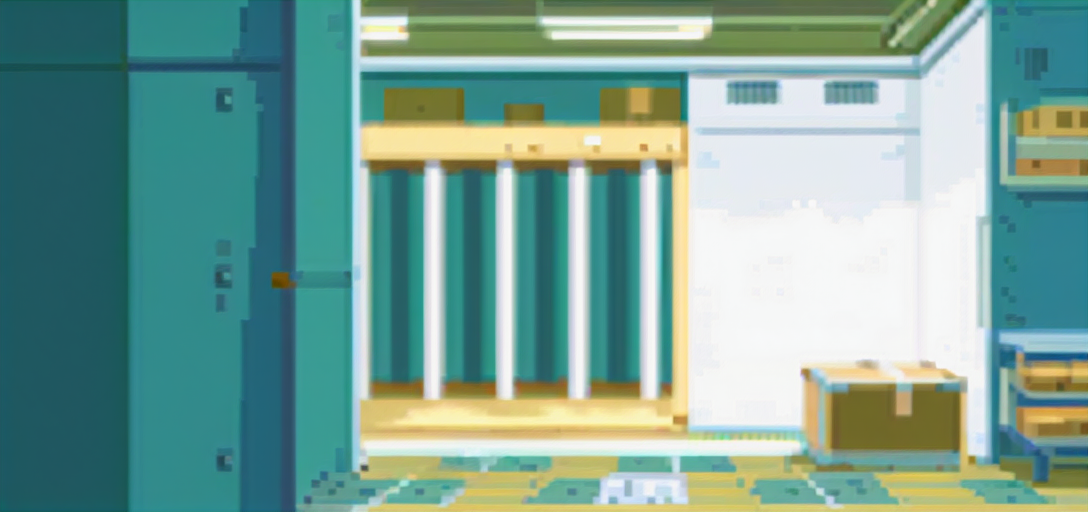
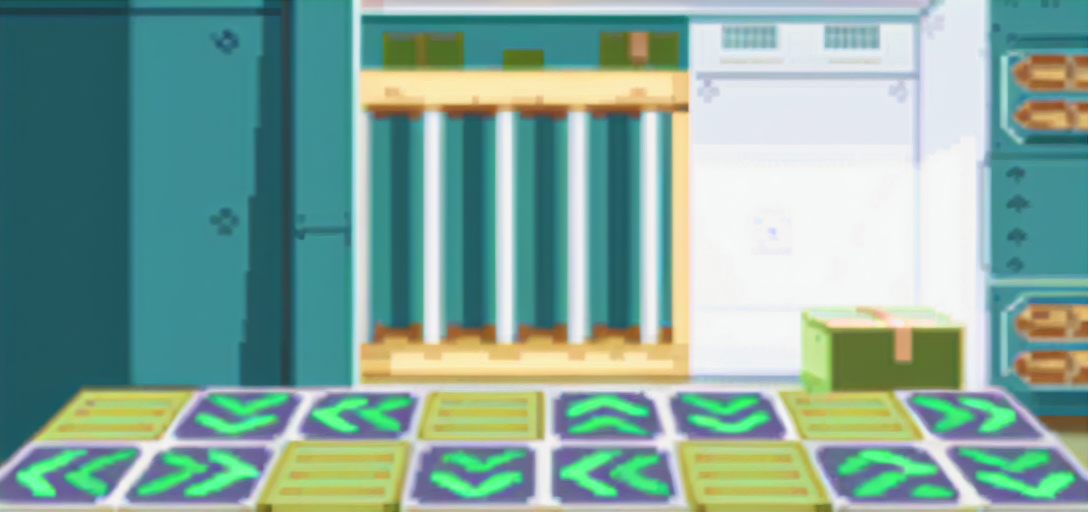
T-445: CORPUS HIDEOUT's card built (engine 4f24d5d37); the WAREHOUSE's repainted with a bigger spin-tile floor (draft)
rocket_hideout joins LANDMARK_APPROVED. The WAREHOUSE's room is lifted 12 rows
and its floor laid 26px deep, eight spin tiles a row, painted at 0.40 (seed 4472)
so the arrows read at 1x; interior_floor no longer takes a computer or a door for
a spin tile; post 'spinfloor' lays the tiles back crisp (a candidate, not used).

diff --git a/tools/gbapreviews.py b/tools/gbapreviews.py
@@ -578,7 +578,8 @@ MOTIFS = dict(lights=motif_lights, courses=motif_courses, cable=motif_cable, col
 #  is drawn (an ash sky, CINNABAR's sea behind, the sand) and the burned facade laid over it. The sprite server then
 #  repaints it, image to image, at a denoise low enough that our building survives. Nothing here is written to the
 #  engine until the user approves a card (LANDMARK_APPROVED).
-LANDMARK_APPROVED = {"silph_co", "pokemon_tower", "pokemon_mansion"}   # the user, 2026-10-26: build all three as drawn
+LANDMARK_APPROVED = {"silph_co", "pokemon_tower", "pokemon_mansion",   # the user, 2026-10-26: build all three as drawn
+                     "rocket_hideout"}                                 # the user, 2026-10-26: CORPUS HIDEOUT as drawn
 LANDMARK_DRAWINGS = os.path.join(ROOT, "gfx", "drafts", "landmarks")
 GREYS = [(40, 40, 46), (72, 72, 80), (108, 108, 116), (148, 148, 156), (188, 188, 194), (222, 222, 226)]
 LANDMARK = {
@@ -632,8 +633,13 @@ LANDMARK = {
     "rocket_warehouse": dict(
         source="FiveIsland_RocketWarehouse", title="CORPUS WAREHOUSE", interior=True,
         erase=[((0, 33, 29, 93), (2, 30)), ((29, 33, 43, 93), (35, 30))],
-        floor_tiles=dict(quad=((64, 112), (236, 112), (214, 100), (84, 100)), cols=10, rows=2),
-        seed=4471, denoise=0.45,
+        #  the user (2026-10-26): "repaint with a bigger spin-tile floor that reads at 1x". The first draft's floor
+        #  was a 12px strip of ten tiles a row and washed out; the room is lifted 12 rows (its ceiling strip goes) and
+        #  the floor laid 26px deep, eight tiles a row at the foot, painted at 0.40. post=["spinfloor"] (with the two
+        #  arrow greens in force) lays them back crisp after the painting instead -- the other candidates on sheet
+        #  t445w_repaint. DRAFT: not in LANDMARK_APPROVED.
+        lift=12, floor_tiles=dict(quad=((-8, 112), (248, 112), (222, 86), (18, 86)), cols=8, rows=2),
+        seed=4472, denoise=0.40,
         prompt="inside a corporate warehouse, riveted teal metal wall panels, a wooden cage of white bars, a white "
                "steel door, cardboard boxes, an olive floor laid with green arrow floor tiles, fluorescent ceiling "
                "light",
@@ -695,6 +701,10 @@ def interior_scene(folder):
             k = region(x, y)
             lo, hi = rng[k]
             px[x, y] = _ramp(INTERIOR_RAMPS[k], (_lum(vp[x, y]) - lo) / max(1, hi - lo))
+    lift = c.get("lift", 0)
+    if lift:                    # the room raised LIFT rows (its ceiling strip goes), so the floor has room to be seen
+        bg.paste(bg.crop((0, lift, 240, 112)), (0, 0))
+        ImageDraw.Draw(bg).rectangle((0, 112 - lift, 239, 111), fill=_ramp(INTERIOR_RAMPS["floor"], 0.55))
     return bg
 
 
@@ -709,12 +719,14 @@ def interior_floor(folder):
     bd = open(os.path.join(GBA, l["blockdata_filepath"]), "rb").read()
     green = {(82, 222, 123), (131, 255, 164)}
     arrows, floor, seen = [], collections.Counter(), set()
+    #  a spin tile is 56 of its 256 pixels green; a computer or a door carries 2 (their screens' LEDs), so a block is
+    #  an arrow only where green is a real share of it
     for yy in range(H):
         for xx in range(W):
             m = struct.unpack_from("<H", bd, (yy * W + xx) * 2)[0] & 0x3FF
             cell = img.crop((xx * 16, yy * 16, xx * 16 + 16, yy * 16 + 16))
             cols = set(cell.getdata())
-            if cols & green:
+            if sum(p in green for p in cell.getdata()) >= 16:
                 if m not in seen:
                     seen.add(m)
                     arrows.append(cell)
@@ -923,7 +935,18 @@ def post_redband(im, folder="silph_co"):
                 px[x, y] = red
 
 
-POSTS = dict(braille=post_braille, redband=post_redband)
+def post_spinfloor(im, folder="rocket_warehouse"):
+    """CORPUS WAREHOUSE, after the painting: the spin tiles laid back on the floor from the built map, warped to the
+    card at 1x (the server washes a green chevron this small into the olive at any denoise that paints the room)"""
+    c = LANDMARK[folder]
+    b, q = interior_floor(folder), c["floor_tiles"]["quad"]
+    W, H = b.size
+    co = _homography([(0, H), (W, H), (W, 0), (0, 0)], q)
+    w = b.transform((240, 112), Image.PERSPECTIVE, co, Image.NEAREST)
+    im.paste(w.convert("RGB"), (0, 0), w)
+
+
+POSTS = dict(braille=post_braille, redband=post_redband, spinfloor=post_spinfloor)
 
 
 # ================================================================== OTHER CAVE's four lights

diff --git a/docs/TODO.md b/docs/TODO.md
@@ -338,7 +338,7 @@ was one `git log -S` away.*
 | **T-449** | **The region map rebranded: same shape, our look** (*the user, 2026-10-24: "refresh and rebrand the map itself -- similar shape so it matches normal navigation from it, should have the thesis looks and feel (elements of music and code) and the land itself should look different at least in theme form ... both the mainland and islands ... the routine to travel is GOTO and TRAVERSE so maybe the water itself is like a shuffle of binary or musical notes (same as theme) (maybe this also applies to some general overworld sprites not just the map)"*). The TOWN MAP / GOTO map (graphics/region_map/, both the mainland and the SEVII pages) keeps its layout and cursor grid so navigation is unchanged, but the land, routes, towns and frame are redrawn in the game's music-and-code language, and the sea becomes a shuffle of bits or notes, animated if the map allows. **Job**: draft on a sheet (mainland + islands, today beside draft) for the user; then the same idea proposed for the overworld's water tiles and other general field art. Never say the thesis (craft rule 1): the look carries it. **Drafted (DAEMONS `f780ddb9`, gfx/drafts/t449). The user (2026-10-24): direction A SCORE (paper and ink, staff-line terrain, beamed routes, noteheads) -- lift the sea's contrast against the paper islands; the sea a shuffle of bits AND notes, animated by palette cycling (a new row 5, the shore calm); the frame redrawn whole (side panels and the six slide-open edge sprites); the overworld water in bits and notes, each slot on its own timing.* **Built (engine `fc361a133`, `tools/gbaregionmap.py` `--write --approved`; `tools/gbawater.py` redrawn):** the four pages, the sea on BG row 5 cycled by `Task_RegionMapSea` (fades checked in the theatre), the frame, edge sprites, top strip, buttons and switch menu; the overworld water's 8 frames as four glyph slots on their own schedules. *Left for the user: the GOTO/fly icons and the cursor are still vanilla's sprites (red and blue on the paper), and the "other general field art" half of the job.* |
 | **T-447** | **The landmarks get art of their own, drawn from the story** (*the user, 2026-10-24: "especially for key buildings though (like scorn solutions) we want to make the art our own, not just tweak, so we should look at the story and infer from that"*). T-438's passes keep vanilla's silhouettes and retint them; the buildings the story turns on (SCORN SOLUTIONS, CORPUS's tower, DAEMON TOWER, the MANSION, CRYSTAL's lab, the BENCHMARKs, the GAME CORNER, ERRATA, KEEPALIVE PLANT, the REVIEW BOARD, USER TOWER ...) need designs inferred from the bible. **Job**: a landmarks plan (story basis + a 512 concept per building, footprint and palette limits) for the user's approval, then redraw each inside its footprint; landmarks are held out of T-438's leftover batches. **Planned (DAEMONS `6db593e4`; docs/private/plan-landmarks-2026-10-24.md). The user (2026-10-24): SCORN SOLUTIONS drawn as CRYSTAL's lab's sister, then rebranded (gold leaf, blinds, the roof ruled like a form, an intake slot; the only red the new owner's); the MANSION redesigned in its 7x4 footprint (replaces batch H's ash roof); CORPUS's floor plate seen through a glass lobby, no words; built two at a time, a sheet and a yes before each pair -- SCORN SOLUTIONS + the MANSION first, then CORPUS's tower. Still to ask, with their pairs: DAEMON TOWER, REVIEW BOARD, USER TOWER, THE ANNEX.* **SCORN SOLUTIONS + the MANSION drafted (DAEMONS `ee34966e`, tools/gbalandmarks.py; 91 of 117 tiles). The user (2026-10-24): SCORN's door a plain steel door with the procedure's red light; the roof form as fewer, bigger boxes so the tick reads at 1x; the MANSION one big stain rising from the cave-in and the racks curved like a rib cage; revise, show the sheet once more at 1x, then build on a yes.* **Revised (DAEMONS `e559d4eb`); the user (2026-10-24): build it.** **The first pair BUILT (engine `cf4454491`, 2026-10-24)**: `gbalandmarks.py --write --approved` (blocks 134->192, rows 10 and 11, byte-identical to the draft) then `gbadoors.py --write --approved` (the lab door's frames from the steel door, sDoorAnimPalettes_CinnabarLab 3 -> 10); a second write of each a no-op (gbalandmarks' census now ignores the unused RS Safari layouts' block ids past vanilla's count, which read as its own blocks after a write and made the rerun refuse); gbatowns, gbaislandsigns, gbasandbar and gbafounder write nothing new. Walked in the theatre: both buildings in game, SCORN's steel door swinging open as the player walks in, the MANSION's door into 1F. Next: CORPUS's tower. **The user (2026-10-24, evening): DAEMON TOWER dots and niches (dense dots at the foot, sparse at the top; seven bands of niches); USER TOWER progress bars (each floor a band with a teal bar); THE ANNEX a flat survey disc (no collision change). The REVIEW BOARD's colour is still to ask.* **Pair 2 drafted (DAEMONS `84ae38f3`) as flat slabs; the user (2026-10-24): redraw both with 3/4 depth (side faces, an inset silhouette with ground at the sides, rounded/stepped edges); DAEMON TOWER's niches arched into the dots (no shelves) and its top a dotted dome; CORPUS's door redrawn so the plate continues through its glass (new silph_co door frames).* **Pair 2 redrawn with depth (DAEMONS `a219855f`); the user (2026-10-25): build both. The REVIEW BOARD's only colour: four vessels of fluid (red, yellow, black, pale) in seat order I-IV.* **Pair 2 BUILT (engine `27e785a73`, 2026-10-25)**: `gbalandmarks.py --write --approved` (corpus_tower, daemon_tower added to APPROVED: saffron_city row 9, 55 tiles, blocks 276->282, the tower and the crossings' copy; lavender_town row 7, 82 tiles, LavenderTown rows 0..6 and ROUTE 10 rows 72..79) then `gbadoors.py --write --approved` (DOORS["silph_co"]["redrawn"] = CORPUS_DOOR without its block: silph_co.png from the glass door, sDoorAnimPalettes_SilphCo 3 -> 9); gbadoors' report exits 0, a second write of both a no-op, gbatowns redraws nothing, every PNG 4-bit 16-colour. Walked in the theatre (`tools/routes/landmarks-2.json`, goto, holds and shots): CORPUS's tower at 1x, its glass door (the plate through it) sliding open as the player walks in, into SilphCo_1F; DAEMON TOWER grey and in colour (sDaemonsHalftoneInColour poked), its dotted dome on ROUTE 10, walked into PokemonTower_1F. Found: the map-name cards on entering still show vanilla's SILPH CO. and POKEMON TOWER pictures. Next: ask DAEMON TOWER's neighbours -- the REVIEW BOARD (its colour decided), USER TOWER, THE ANNEX.* **Pair 3 drafted (DAEMONS `64a0205c`); the user (2026-10-25): build with tweaks -- the REVIEW BOARD's pale porch redrawn in dark stone (the shared door kept); four faint seat places inlaid along its slab; ERRATA's erratum (struck line, red caret) moved onto the big slate roof where it reads at 1x (an echo on the pediment if tiles allow); a quick 1x check, then build.* **Tweaked (DAEMONS `9283f477`); the user (2026-10-25): build pair 3 -- and scramble ERRATA's chalk line so no word can be picked out (at 3x it read 'why'), same tiles.* **Pair 3 BUILT (engine `2332f9e44`, 2026-10-26)**: *ERRATA's chalk first scrambled -- each word's span kept in place and width, drawn as one pen path of chalk (ERRATA_SCRAWL, steps of at most two, three pen lifts above the x-height) instead of letter-like shapes, so no word reads at 1x or 3x; only 8 tiles' pixels changed, still 123 of 123 slots. Then `gbalandmarks.py --write --approved` (review_board, errata added to APPROVED): UMBRA rows 7 and 8, 112 tiles, blocks 176->197, -num_tiles 247->300; SLATE row 12, 123 tiles (0 to spare), blocks 146->186, -num_tiles 312->376. Byte-identical to the draft; a second write a no-op; every PNG 4-bit 16-colour; pairs 1 and 2 untouched; gbadoors: the engine matches its write exactly (both doors kept, no frames); gbatowns writes nothing new (its census now counts ERRATA as ours: SLATE 12% -> 3% vanilla). firered_debug built (exit 0). Route `tools/routes/landmarks-3.json` (goto and shots, walking into each door) written and checked, not yet played: the theatre did not answer.* |
 | ~~**T-446**~~ | ~~**Four elevator doors would redraw lit if gbadoors ran with --approved**~~ (*found 2026-10-24 by the batch F build*): `gbadoors.py --write --approved` would redraw the HIDEOUT, SILPH and TRAINER TOWER lobby and roof elevator doors with the cab light instead of dark -- old drift (probably batch D, engine 80f4553d8), present on a clean HEAD; check_generators misses it because it runs gbadoors without --approved. The game is unchanged (the four files were reverted). **Job**: find which side is right, fix the tool or the files, and record or clear the drift; make check_generators run gbadoors' approved set too. **Also (2026-10-24, the landmark build): `gbadoors --write --approved` would now redraw `safari_zone.png` (420 pixels re-indexed after batch H moved LURID's row 9), so the SAFARI door's opening frames may not match its new closed colours -- check in the theatre and fix with the elevator doors.* | ***Closed (engine `4c307ea22`; the tool in this commit).*** **The files were right; the tool had drifted.** *Filmed in the theatre (all five opening, or the lobby lift opening as you leave it -- its counter keeps you out): no jump outside the leaf, a slate room behind each. The tool picks the room as the row's DARKEST colour, and later palette passes moved which entry that is -- batch D's timber brown (building row 2, entry 9) and batch H's LURID magenta (fuchsia row 9, entry 10) went darker than the approved slate (entry 1), so a write would have swapped room and floor line. Not lit: brown and magenta.* **Fix**: `DOORS` pins those five rooms by palette index (`room=(void, floor, sill)`, the entries batch A drew), so a recolour moves frames and closed block together. `safari_zone.png`'s pixels were already right; only its embedded palette was stale, rewritten (ROM unchanged). **Caught from now on**: gbadoors' report compares the engine with its approved write and exits 1 on any difference, and check_generators' `--writes` runs it with `--approved`. |
-| **T-445** | **The cave preview screens are still vanilla** (*the user, 2026-10-23, from batch E*): on entering a cave the game shows a preview picture (src/map_preview_screen.c; graphics/map_preview/: MT MOON, ROCK TUNNEL, DIGLETT, SEAFOAM, VICTORY ROAD, POWER PLANT, MT EMBER, DOTTED HOLE, ICEFALL, ALTERING CAVE, ...). Redraw each from the new cave art (T-438 batch E) with the DAEMONS name, 16-colour, on a contact sheet before building. ***Drafted 2026-10-23*** (`tools/gbapreviews.py`; drafts `gfx/drafts/t445/<cave>/`, sheets t445_previews_1/2): *21 pictures behind 29 MPS entries. The NAME is not in the picture -- the game prints GetMapName (our names) in a window over vanilla's baked banner, so every preview already says DEADSTACK etc.; none is wider than the 104px window. The eleven batch E caves are drafted (DEADSTACK, THE WRONG WAY, UMBRAL ASCENT, TAPPOINT'S CAVE, THE BLACKOUT, OTHER CAVE, KEEPALIVE PLANT, GLAUCOUS ISLES, STILLFALL CAVE, MT. SMOULDER, THE DOTS): a 15x7-block window of the cave's own maps rendered with the built tilesets (THE WRONG WAY's 11x11 rooms an 8x4 window doubled), 15 colours in palette 13, the letterbox, banner and palette 14 vanilla's; 79-129 tiles each (the name window starts at tile 450). Not drafted: DOLDRUM CAVE (waits on the user), the TANOBY chambers (batch G), and the forests, tower, mansion, SILPH, hideout, warehouse and SAFARI (not caves). `--write --approved` writes tiles.png, tilemap.bin and the -num_tiles line; it refuses without --approved.* **Questions for the user**: *a top-down view of the cave (as drafted) or a painted entrance like vanilla's; and should OTHER CAVE's preview follow its four lights (engine code) or keep the teal.* **The user's answers (2026-10-23)**: *painted entrances, not top-down -- the sprite server paints each cave's mouth at 512 from these views, in each cave's colours; OTHER CAVE's preview follows its four lights (engine code); the non-cave previews come with their own batches.* **Painted (DAEMONS `d650adfd`), the user (2026-10-23): build all eleven, fixing STILLFALL's mouth, THE DOTS as six-dot cells and SMOULDER's snowy peak first; DEADSTACK and THE WRONG WAY alike is right.* ***BUILT 2026-10-23 (engine `d13cda5e9`)***: *STILLFALL CAVE repainted with a clear mouth beside the frozen fall (a ragged black opening laid into the start image, `motif_mouth`, seed 4455); THE DOTS' dots now six-dot braille cells, 2x3 with gaps, pressed into the painting at the picture's own size after the server (`post_braille` -- the server smoothed a dot that small away or swelled it to a stud; seed 4451, 0.40); MT. SMOULDER's far peak graded charcoal ash with snow in the negative prompt (seed 4451). All eleven written with `--write --approved`; OTHER CAVE's light1..3.pal written by the tool too, INCBIN'd in src/map_preview_screen.c and laid over palette 13 by MapPreview_LoadGfx as VarGet(VAR_OTHER_CAVE_LIGHT) % 4 -- the preview runs in CB2_DoChangeMap, before CB2_LoadMap2's LoadMapFromWarp runs the ON_TRANSITION that steps the count. Found on the way: `vanilla()` read the engine's own graphics/map_preview/ files, so after one --write every later run graded and lit from OUR picture (the light palettes moved, tile counts by one) -- it now reads pret's from upstream/master and the write is idempotent; tiles.png carries exactly two 16-colour palettes (13, 14), never a 256-entry PLTE. Theatre `tools/routes/t445-previews.json`: each cave entered on foot from outside, its preview filmed through the fade, then inside; OTHER CAVE five times in a row from OUTCAST ISLAND -- teal, amber, chrysoprase, rose quartz, teal again, each preview's light matching the cave inside. Sheets t445b_fixes, t445b_drafts_1..3, t445b_theatre_1..3.* Still open here: DOLDRUM CAVE's (waits on the user, T-251) and the TANOBY chambers' (batch G). **Also (2026-10-25, found building T-447 pair 2): the name card on entering still shows vanilla's pictures for the landmarks -- FOUNDRY CO. over SILPH CO.'s, DAEMON TOWER over POKEMON TOWER's; paint them from the new buildings (and SCORN SOLUTIONS' / the MANSION's if they have cards).* **The landmarks' cards drafted (2026-10-26, `gbapreviews.py --landmarks`; drafts `gfx/drafts/t445/{silph_co,pokemon_tower,pokemon_mansion}/`, sheets t445n_*)**: *three of T-447's landmarks have a card -- CORPUS's tower (FOUNDRY CO., silph_co), DAEMON TOWER (pokemon_tower), the MANSION (pokemon_mansion, vanilla's is its hall inside); SCORN SOLUTIONS, the REVIEW BOARD and ERRATA have none (no sMapPreviewScreenData entry); CORPUS HIDEOUT and CORPUS WAREHOUSE have cards but no T-447 art. Each start image is vanilla's card graded into the town's colours with T-447's building as built (checked pixel for pixel against the built map) laid in seen from below, softened, painted on the sprite server at 0.45-0.50 (seeds 4464/4467/4468); CORPUS's red band laid back after the painting and given its own palette index. 295/350/315 tiles (< 450), 15 colours in palette 13, palette 14 and the banner vanilla's; ROM about +1.1 KB compressed. Nothing written: `LANDMARK_APPROVED` is empty and --write refuses the rest. Waits on the user.* **The user (2026-10-26, on the draft sheet): build all three name cards as drawn (FOUNDRY CO., DAEMON TOWER grey with its orange flames, the MANSION's burned outside; CORPUS's red band laid back crisp, the default); draft CORPUS HIDEOUT's and the WAREHOUSE's cards now from the current maps. The REVIEW BOARD's new card is T-456.* ***The landmarks' cards BUILT 2026-10-26 (engine `3e7dd26bc`)***: *the three added to `LANDMARK_APPROVED` and written with `--landmarks --write --approved` -- FOUNDRY CO. 295 tiles (red band crisp), DAEMON TOWER 350 (grey, orange flames), the MANSION 315 (burned outside); the written tiles.png and tilemap.bin byte-identical to the drafts, a second write a no-op, the eleven cave cards untouched, each tiles.png exactly 32 colours (palettes 13, 14), report mode writes nothing; firered_debug builds (exit 0). ROM +1,112 bytes compressed (18,704 against vanilla's 17,592). Sheet t445b_cards, decoded from the built .lz files. Theatre not filmed (no answer within a minute).* **CORPUS HIDEOUT's and CORPUS WAREHOUSE's cards drafted (2026-10-26, `--landmarks`, drafts `gfx/drafts/t445/{rocket_hideout,rocket_warehouse}/`, sheet t445h_drafts)**: *both are vanilla's rooms inside, so the start image is vanilla's room graded into the SilphCo tileset's colours both maps use now (teal wall, slate, olive floor, white, wood; `INTERIOR_RAMPS`), the ROCKET R taken off the wall, the WAREHOUSE's spin tiles cut from the built map and laid on its floor; painted at 0.45 (seeds 4470/4471). 265 and 286 tiles (vanilla 194/234). Not in LANDMARK_APPROVED: waits on the user.* **The user (2026-10-26, on the HIDEOUT/WAREHOUSE sheet): build CORPUS HIDEOUT's card as drawn; repaint the WAREHOUSE's with a bigger spin-tile floor that reads at 1x; leave the wall blank where vanilla's R was; film the built cards in the theatre at the next push.* |
+| **T-445** | **The cave preview screens are still vanilla** (*the user, 2026-10-23, from batch E*): on entering a cave the game shows a preview picture (src/map_preview_screen.c; graphics/map_preview/: MT MOON, ROCK TUNNEL, DIGLETT, SEAFOAM, VICTORY ROAD, POWER PLANT, MT EMBER, DOTTED HOLE, ICEFALL, ALTERING CAVE, ...). Redraw each from the new cave art (T-438 batch E) with the DAEMONS name, 16-colour, on a contact sheet before building. ***Drafted 2026-10-23*** (`tools/gbapreviews.py`; drafts `gfx/drafts/t445/<cave>/`, sheets t445_previews_1/2): *21 pictures behind 29 MPS entries. The NAME is not in the picture -- the game prints GetMapName (our names) in a window over vanilla's baked banner, so every preview already says DEADSTACK etc.; none is wider than the 104px window. The eleven batch E caves are drafted (DEADSTACK, THE WRONG WAY, UMBRAL ASCENT, TAPPOINT'S CAVE, THE BLACKOUT, OTHER CAVE, KEEPALIVE PLANT, GLAUCOUS ISLES, STILLFALL CAVE, MT. SMOULDER, THE DOTS): a 15x7-block window of the cave's own maps rendered with the built tilesets (THE WRONG WAY's 11x11 rooms an 8x4 window doubled), 15 colours in palette 13, the letterbox, banner and palette 14 vanilla's; 79-129 tiles each (the name window starts at tile 450). Not drafted: DOLDRUM CAVE (waits on the user), the TANOBY chambers (batch G), and the forests, tower, mansion, SILPH, hideout, warehouse and SAFARI (not caves). `--write --approved` writes tiles.png, tilemap.bin and the -num_tiles line; it refuses without --approved.* **Questions for the user**: *a top-down view of the cave (as drafted) or a painted entrance like vanilla's; and should OTHER CAVE's preview follow its four lights (engine code) or keep the teal.* **The user's answers (2026-10-23)**: *painted entrances, not top-down -- the sprite server paints each cave's mouth at 512 from these views, in each cave's colours; OTHER CAVE's preview follows its four lights (engine code); the non-cave previews come with their own batches.* **Painted (DAEMONS `d650adfd`), the user (2026-10-23): build all eleven, fixing STILLFALL's mouth, THE DOTS as six-dot cells and SMOULDER's snowy peak first; DEADSTACK and THE WRONG WAY alike is right.* ***BUILT 2026-10-23 (engine `d13cda5e9`)***: *STILLFALL CAVE repainted with a clear mouth beside the frozen fall (a ragged black opening laid into the start image, `motif_mouth`, seed 4455); THE DOTS' dots now six-dot braille cells, 2x3 with gaps, pressed into the painting at the picture's own size after the server (`post_braille` -- the server smoothed a dot that small away or swelled it to a stud; seed 4451, 0.40); MT. SMOULDER's far peak graded charcoal ash with snow in the negative prompt (seed 4451). All eleven written with `--write --approved`; OTHER CAVE's light1..3.pal written by the tool too, INCBIN'd in src/map_preview_screen.c and laid over palette 13 by MapPreview_LoadGfx as VarGet(VAR_OTHER_CAVE_LIGHT) % 4 -- the preview runs in CB2_DoChangeMap, before CB2_LoadMap2's LoadMapFromWarp runs the ON_TRANSITION that steps the count. Found on the way: `vanilla()` read the engine's own graphics/map_preview/ files, so after one --write every later run graded and lit from OUR picture (the light palettes moved, tile counts by one) -- it now reads pret's from upstream/master and the write is idempotent; tiles.png carries exactly two 16-colour palettes (13, 14), never a 256-entry PLTE. Theatre `tools/routes/t445-previews.json`: each cave entered on foot from outside, its preview filmed through the fade, then inside; OTHER CAVE five times in a row from OUTCAST ISLAND -- teal, amber, chrysoprase, rose quartz, teal again, each preview's light matching the cave inside. Sheets t445b_fixes, t445b_drafts_1..3, t445b_theatre_1..3.* Still open here: DOLDRUM CAVE's (waits on the user, T-251) and the TANOBY chambers' (batch G). **Also (2026-10-25, found building T-447 pair 2): the name card on entering still shows vanilla's pictures for the landmarks -- FOUNDRY CO. over SILPH CO.'s, DAEMON TOWER over POKEMON TOWER's; paint them from the new buildings (and SCORN SOLUTIONS' / the MANSION's if they have cards).* **The landmarks' cards drafted (2026-10-26, `gbapreviews.py --landmarks`; drafts `gfx/drafts/t445/{silph_co,pokemon_tower,pokemon_mansion}/`, sheets t445n_*)**: *three of T-447's landmarks have a card -- CORPUS's tower (FOUNDRY CO., silph_co), DAEMON TOWER (pokemon_tower), the MANSION (pokemon_mansion, vanilla's is its hall inside); SCORN SOLUTIONS, the REVIEW BOARD and ERRATA have none (no sMapPreviewScreenData entry); CORPUS HIDEOUT and CORPUS WAREHOUSE have cards but no T-447 art. Each start image is vanilla's card graded into the town's colours with T-447's building as built (checked pixel for pixel against the built map) laid in seen from below, softened, painted on the sprite server at 0.45-0.50 (seeds 4464/4467/4468); CORPUS's red band laid back after the painting and given its own palette index. 295/350/315 tiles (< 450), 15 colours in palette 13, palette 14 and the banner vanilla's; ROM about +1.1 KB compressed. Nothing written: `LANDMARK_APPROVED` is empty and --write refuses the rest. Waits on the user.* **The user (2026-10-26, on the draft sheet): build all three name cards as drawn (FOUNDRY CO., DAEMON TOWER grey with its orange flames, the MANSION's burned outside; CORPUS's red band laid back crisp, the default); draft CORPUS HIDEOUT's and the WAREHOUSE's cards now from the current maps. The REVIEW BOARD's new card is T-456.* ***The landmarks' cards BUILT 2026-10-26 (engine `3e7dd26bc`)***: *the three added to `LANDMARK_APPROVED` and written with `--landmarks --write --approved` -- FOUNDRY CO. 295 tiles (red band crisp), DAEMON TOWER 350 (grey, orange flames), the MANSION 315 (burned outside); the written tiles.png and tilemap.bin byte-identical to the drafts, a second write a no-op, the eleven cave cards untouched, each tiles.png exactly 32 colours (palettes 13, 14), report mode writes nothing; firered_debug builds (exit 0). ROM +1,112 bytes compressed (18,704 against vanilla's 17,592). Sheet t445b_cards, decoded from the built .lz files. Theatre not filmed (no answer within a minute).* **CORPUS HIDEOUT's and CORPUS WAREHOUSE's cards drafted (2026-10-26, `--landmarks`, drafts `gfx/drafts/t445/{rocket_hideout,rocket_warehouse}/`, sheet t445h_drafts)**: *both are vanilla's rooms inside, so the start image is vanilla's room graded into the SilphCo tileset's colours both maps use now (teal wall, slate, olive floor, white, wood; `INTERIOR_RAMPS`), the ROCKET R taken off the wall, the WAREHOUSE's spin tiles cut from the built map and laid on its floor; painted at 0.45 (seeds 4470/4471). 265 and 286 tiles (vanilla 194/234). Not in LANDMARK_APPROVED: waits on the user.* **The user (2026-10-26, on the HIDEOUT/WAREHOUSE sheet): build CORPUS HIDEOUT's card as drawn; repaint the WAREHOUSE's with a bigger spin-tile floor that reads at 1x; leave the wall blank where vanilla's R was; film the built cards in the theatre at the next push.* ***CORPUS HIDEOUT's card BUILT 2026-10-26 (engine `4f24d5d37`)***: *`rocket_hideout` added to `LANDMARK_APPROVED` and written with `--landmarks --write --approved` -- 265 tiles; tiles.png and tilemap.bin byte-identical to the draft, a second write a no-op, every other map_preview file byte-identical (hashed before and after), tiles.png exactly 32 colours, report mode writes nothing; firered_debug builds (exit 0) and the card decoded from the built .lz files equals the draft pixel for pixel (sheet t445b_hideout). ROM +1,316 bytes compressed (3,928 against vanilla's 2,612).* **CORPUS WAREHOUSE's card REPAINTED (draft, 2026-10-26)**: *the first draft's floor was a 12px strip of ten tiles a row and the arrows washed out; the room is now lifted 12 rows (its ceiling strip goes) and the floor laid 26px deep, eight tiles a row at the foot (`lift`, `floor_tiles`), painted at 0.40 (seed 4472): the arrows read at 1x, 288 tiles, nothing forced into the palette, the wall blank where the R was. `interior_floor` now takes a block as a spin tile only where green is a real share of it (it had cut a computer and a door in by their LEDs). Five candidates on sheet t445w_repaint: A 0.35, B 0.40 (the draft), and C/D/E with `post=["spinfloor"]`, which lays the spin tiles back crisp after the painting (as CORPUS's red band) -- crisper, but they read pasted on and the two forced greens cost the room colours. Not in LANDMARK_APPROVED: waits on the user.* |
 | **T-456** | **The REVIEW BOARD gets a name card** (*the user, 2026-10-26*): UMBRA PLATEAU has no entry in `sMapPreviewScreenData`, so entering shows no picture. Add the card (a new entry and its mapsec hookup in src/map_preview_screen.c) with art painted from T-447 pair 3's hall, by `tools/gbapreviews.py --landmarks`, drafted on a sheet first. | |
 | **T-457** | **The second joining: CRYSTAL's work in THE MARGINS, and a merger that holds both** (*the user, 2026-10-26, decided in a design session; private notes in docs/private/draft-full-circle-2026-10-23.md*): the first merger is Brazen's (CLEAR LABORATORY under gold leaf); this is its rhyme. **Seeded early, pays off late**: CELIO's network in THE MARGINS carries signals in Act 2, and after THE ANNEX CRYSTAL takes it up as her own work. Four pieces, no new maps: (1) a receiver on her lab desk, picking up one daemon far away, doing fine -- she does not explain it; (2) two PROSPECTUS papers, undated: her new work, named from the margins' own words (name to choose), then the joining -- her INDEX and CELIO's machine, two names side by side, neither on top; (3) Brazen's score board (30, 30, 30, 94) gives way after the GLOBAL INDEX to a posting with no scores; (4) the CHECKPOINT keepers get a line that shows they listen to someone not in the room. **CRYSTAL hands over the GLOBAL INDEX almost silently** (one line about something else). SCORN is unchanged in Brazen; the Quicksilver gold keeps lifting and nobody repaints it. Nobody is rescued and nobody says what it means (4.34, craft rule 1); tending, never medical (craft rule 3). **The user is writing some of the words**; every new line DRAFT. Bible 4.37 (v11.311). |
 | ~~**T-444**~~ | ~~**The Fame Checker's portraits load 512 bytes of palette**~~ (*found 2026-10-22 by the T-442 fix*): T-177's four portraits are 256-colour PNGs and their palettes load with sizeof(), so they write 512 bytes over sprite palettes -- the same class that blacked out every NPC behind a field banner in v11.309.5. Re-save them 16-colour (pixels unchanged), load exactly one palette, and add a check that fails on any 8bpp/256-colour PNG whose palette is loaded by sizeof (scan graphics/ for >16-colour indexed PNGs feeding OBJ/BG palettes). ***DONE 2026-10-23 (engine `6b1f49ea6`)***: *the four re-saved 4-bit with their 16 colours, pixels unchanged, and loaded at `PLTT_SIZE_4BPP`; `tools/gbachar.py` now saves a portrait whose PNG palette is the one that loads 4-bit. New `tools/check_palettes.py`, run by check_lexicon: every `sizeof()` of a .gbapal in src/ (98 uses of 353 symbols), failing where the source has more than 16 colours but draws only 0..15, or holds more colours than pret's own file; the 11 others over 16 are vanilla's multi-palette screens or our .pal files at vanilla's count. graphics/ also holds 14 more 256-entry PNGs drawing 0..15 (the GUIDE's cover, the twelve ball sprites, the trade and HEARSAY pokeballs, the ghost) -- every one loads exactly 16 colours (SpritePalette, `PLTT_SIZE_4BPP` or a 0x400 buffer), so harmless and left. Checked in the theatre in both editions: all four portraits in colour, the follower and the people coloured after HEARSAY closes; sheets t444_* |
